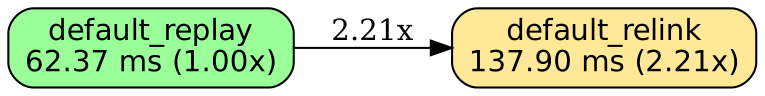
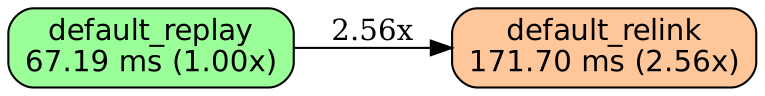
bench: leave the link dev 97 bound row out until a run reads it

Changed region(s): [[0.5712, 0.0938, 0.9922, 0.9062], [0.0601, 0.5, 0.1503, 0.75], [0.451, 0.1875, 0.5412, 0.4375]]

diff --git a/mock/benches/support/build-call/src/measured.rs b/mock/benches/support/build-call/src/measured.rs
@@ -23,16 +23,19 @@ pub const fn disk_key(incremental: bool) -> u16 {
 
 /// The first timed call measured at a cell, in whole seconds rounded up, the
 /// slower of the bench's two arms.
-pub const FIRST_CALL_S: [Row; 7] = [
+pub const FIRST_CALL_S: [Row; 6] = [
     // build-static, run 20261116T063249Z-f04daa0a-dirty, first warm pass
     (call_key(0, 0), 25, 17),
     (call_key(1, 0), 25, 6),
     (call_key(2, 0), 25, 6),
     (call_key(3, 0), 25, 15),
     // link-static, run 20261116T083526Z-b2bbf4ba, first warm pass: the
-    // relink, 0.157 s at dev 25, 0.478 s at dev 97, 0.138 s at release 25
+    // relink, 0.157 s at dev 25 and 0.138 s at release 25. The row at dev 97
+    // is left out until a run reads it: with it the probe of the harness gave
+    // the cell 30 s, which the untimed build of 97 crates in the first call
+    // exceeds (ticket
+    // `the_bench_harness_probe_counts_the_untimed_setup_of_a_build`).
     (call_key(4, 0), 25, 1),
-    (call_key(4, 0), 97, 1),
     (call_key(4, 1), 25, 1),
 ];
 

diff --git a/docs/BENCHES.md b/docs/BENCHES.md
@@ -2,7 +2,7 @@
   AUTO-GENERATED: DO NOT EDIT DIRECTLY
 
   Generated by: mockspace (mock)
-  Generated at: 2026-11-19T22:15:46Z
+  Generated at: 2026-11-20T03:06:07Z
   Source: mock/
   To regenerate: cargo mock
 -->
@@ -2348,12 +2348,12 @@ Run `20261114T211314Z-266650fb-dirty`.
 
 ## link-static/dev_n25 on linux-x86_64-c4-container-intel
 
-Run `20261116T083526Z-b2bbf4ba`.
+Run `20261119T134226Z-07a9e9a3`.
 
 | variant | median | vs best |
 |---|---|---|
-| default_replay | 57.84 ms | 1.00x |
-| default_relink | 148.57 ms | 2.57x |
+| default_replay | 79.97 ms | 1.00x |
+| default_relink | 162.10 ms | 2.03x |
 
 ![link-static/dev_n25 on linux-x86_64-c4-container-intel](BENCHES.link-static.dev_n25.linux-x86_64-c4-container-intel.png)
 
@@ -2370,12 +2370,12 @@ Run `20261116T083526Z-b2bbf4ba`.
 
 ## link-static/release_n25 on linux-x86_64-c4-container-intel
 
-Run `20261116T083526Z-b2bbf4ba`.
+Run `20261119T134226Z-07a9e9a3`.
 
 | variant | median | vs best |
 |---|---|---|
-| default_replay | 62.37 ms | 1.00x |
-| default_relink | 137.90 ms | 2.21x |
+| default_replay | 67.19 ms | 1.00x |
+| default_relink | 171.70 ms | 2.56x |
 
 ![link-static/release_n25 on linux-x86_64-c4-container-intel](BENCHES.link-static.release_n25.linux-x86_64-c4-container-intel.png)
 
